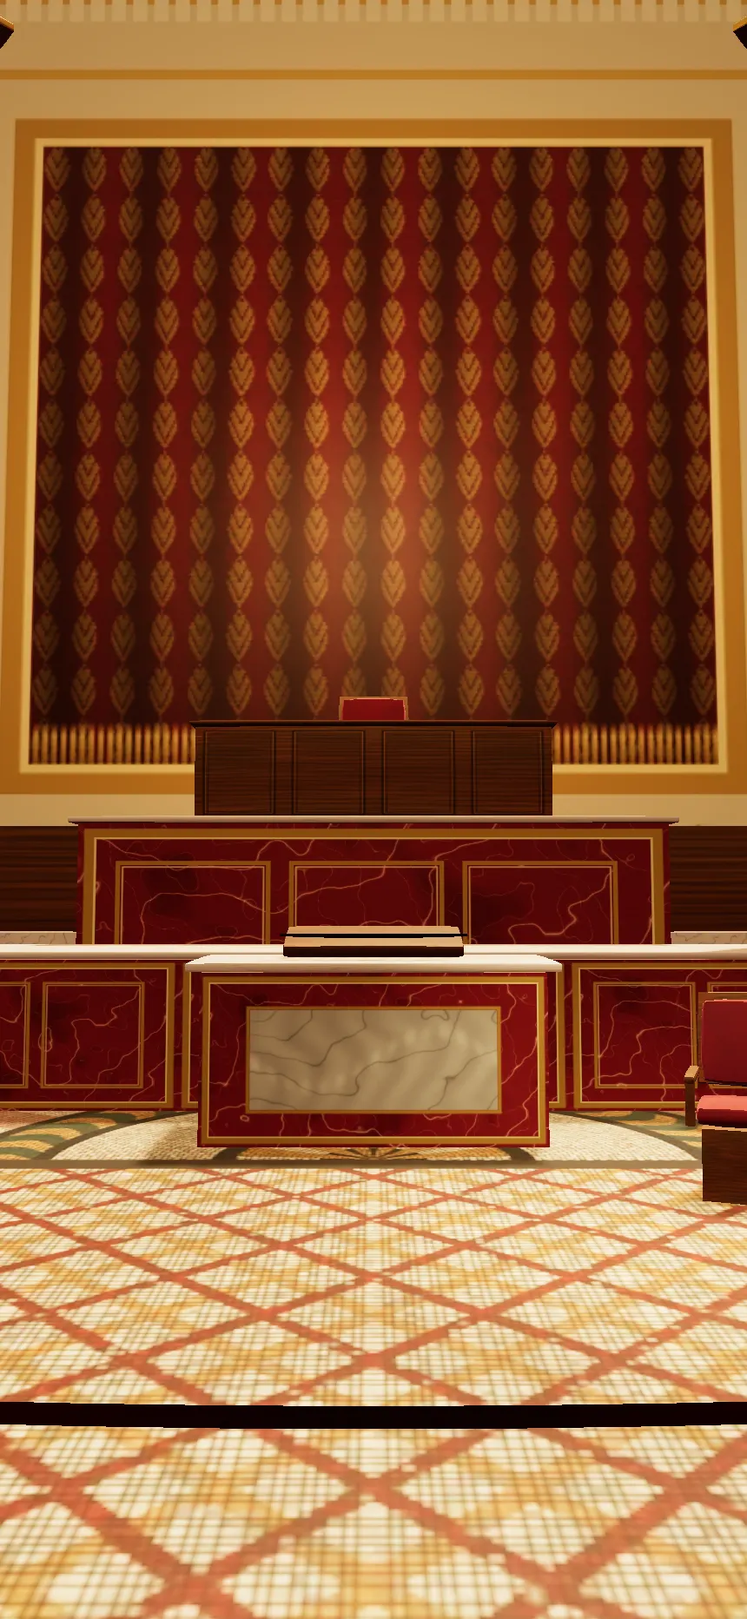
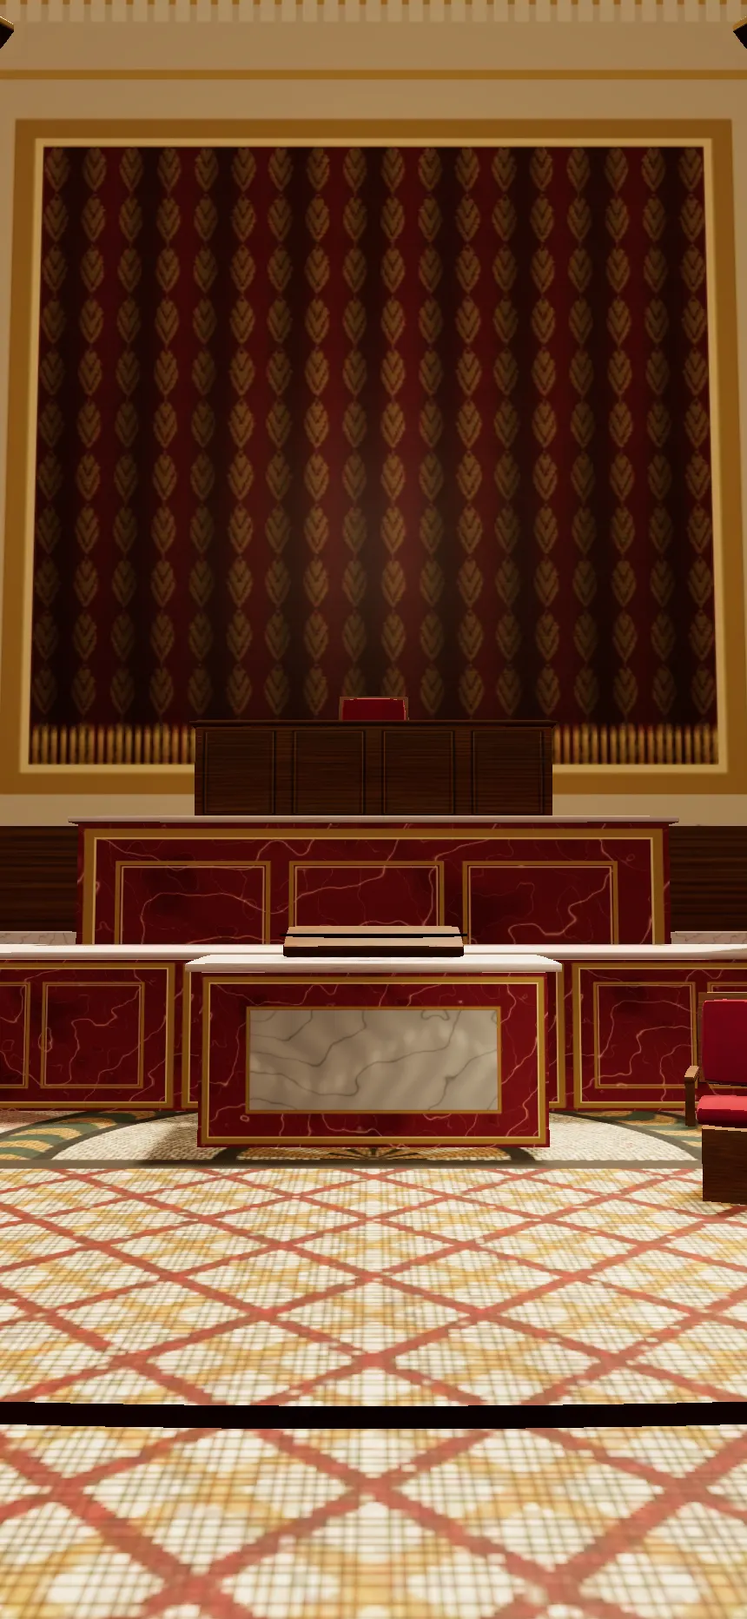
Design définitif « La Séance », lot D2 : la salle 3D retrouve ses couleurs (t65)
- Gestion des couleurs de three coupée (salle3d/gestion-couleurs.ts) : les
  couleurs hexadécimales du prototype r128 sont reprises telles quelles ;
  voyants, accord et personnage convertis à la main (couleurExacte, testé).
- Calibrage sur vraie carte graphique face aux rendus du prototype : appliques,
  fond, projecteur et lumière du jumeau baissés, environnement à 0,5, velours
  sans reflet spéculaire, ambiance verdict aux valeurs du prototype.
- Images fixes recalculées (--gpu) : fond-tribune, et nouvelles fond-salle et
  fond-verdict (voyants éteints) pour le repli plein cadre de D3.
- scripts/calibrage.mjs : rendus de référence et planche avant / après / prototype.

diff --git a/site/src/salle3d/scene.ts b/site/src/salle3d/scene.ts
@@ -1,6 +1,7 @@
 // La salle en 3D (docs/refonte-la-seance.md, § 4), portée du prototype de Julien
 // (docs/salle-3d/room.js, three r128 sans module) vers three 0.186 en module :
-// - couleurs : outputColorSpace et colorSpace au lieu des « encodings » ;
+// - couleurs : outputColorSpace et colorSpace au lieu des « encodings » ; conversion des couleurs
+//   hexadécimales coupée, comme en r128 (gestion-couleurs.ts) ;
 // - lumières physiques : intensités du prototype multipliées par π, puis réglées à l'œil ;
 // - velours : sheen devient un nombre, avec sheenColor ;
 // - matières précalculées (public/salle3d/, scripts/matieres.mjs) au lieu d'être calculées ici ;
@@ -10,6 +11,7 @@
 // les voyants tirés au hasard (les pages donnent les vrais votes).
 // Chargé à la demande par pilote.ts : jamais dans le JavaScript initial d'une page.
 
+import { couleurExacte } from './gestion-couleurs.ts';
 import * as THREE from 'three';
 import { chemin, echelleFauteuil, FAUTEUIL_578, longueur, P, position, sieges3D, surChemin, type Siege3D } from './geometrie.ts';
 import type { Apparence } from './apparence.ts';
@@ -199,7 +201,7 @@ function matieres(T: Textures, telephone: boolean) {
   M.plateau = new THREE.MeshPhysicalMaterial({ map: T.bois, color: 0x9c8474, bumpMap: T['bois-h'], bumpScale: 0.008, roughnessMap: T['bois-r'], roughness: 1, ...cc(0.3, 0.4), envMapIntensity: 0.7 });
   M.panneau = new THREE.MeshPhysicalMaterial({ map: T.panneau, bumpMap: T['panneau-h'], bumpScale: 0.03, roughness: 0.5, ...vernis, envMapIntensity: 0.8 });
   M.velours = new THREE.MeshPhysicalMaterial({ map: T.velours, bumpMap: T['velours-h'], bumpScale: 0.004, roughness: 0.92, metalness: 0,
-    sheen: 1, sheenColor: new THREE.Color(0.42, 0.08, 0.1), sheenRoughness: 0.6, envMapIntensity: 0.3 });
+    sheen: 1, sheenColor: new THREE.Color(0.42, 0.08, 0.1), sheenRoughness: 0.92, specularIntensity: 0, envMapIntensity: 0.3 });
   M.velours.onBeforeCompile = (sh: { fragmentShader: string }) => { // reflet rasant du velours
     sh.fragmentShader = sh.fragmentShader.replace('#include <tonemapping_fragment>',
       'float fr = pow(1.0 - clamp(dot(normal, normalize(vViewPosition)), 0.0, 1.0), 2.2);\n gl_FragColor.rgb += vec3(0.20, 0.035, 0.045) * fr * (0.35 + 0.65 * diffuseColor.r);\n#include <tonemapping_fragment>');
@@ -464,14 +466,14 @@ export async function creer(canvas: HTMLCanvasElement, opt: OptionsScene = {}): 
   const hemi = new THREE.HemisphereLight(0xffe2b8, 0x3a170f, 0.42 * PI); scene.add(hemi);
   const appliques: THREE.PointLight[] = [];
   for (const a of [20, 60, 90, 120, 160]) {
-    const l = new THREE.PointLight(0xffb36b, 0.55 * PI * 40, 18, 2); const ar = rad(a);
+    const l = new THREE.PointLight(0xffb36b, 0.55 * PI * 8, 18, 2); const ar = rad(a);
     l.position.set(19 * Math.cos(ar), 9.5, 19 * Math.sin(ar)); scene.add(l); appliques.push(l);
   }
-  const fond = new THREE.PointLight(0xffc27a, 0.8 * PI * 25, 16, 2); fond.position.set(0, 7, -3); scene.add(fond); appliques.push(fond);
-  const spot = new THREE.SpotLight(0xffe0a8, 1.4 * PI * 40, 14, 0.32, 0.6, 1.5); spot.position.set(2.6, 9, 3.2); spot.target = G.c578; scene.add(spot);
+  const fond = new THREE.PointLight(0xffc27a, 0.8 * PI * 6, 16, 2); fond.position.set(0, 7, -3); scene.add(fond); appliques.push(fond);
+  const spot = new THREE.SpotLight(0xffe0a8, 1.4 * PI * 28, 14, 0.32, 0.6, 1.5); spot.position.set(2.6, 9, 3.2); spot.target = G.c578; scene.add(spot);
   const env = new THREE.TextureLoader();
   const envTex = T.environnement.clone(); envTex.mapping = THREE.EquirectangularReflectionMapping; envTex.colorSpace = THREE.SRGBColorSpace; envTex.needsUpdate = true;
-  const pmrem = new THREE.PMREMGenerator(renderer); scene.environment = pmrem.fromEquirectangular(envTex).texture;
+  const pmrem = new THREE.PMREMGenerator(renderer); scene.environment = pmrem.fromEquirectangular(envTex).texture; scene.environmentIntensity = 0.5;
   void env;
   scene.background = new THREE.Color(0x1a0f09);
   const brouillard = new THREE.FogExp2(0x6b4a30, 0.0085); scene.fog = brouillard;
@@ -495,7 +497,7 @@ export async function creer(canvas: HTMLCanvasElement, opt: OptionsScene = {}): 
   /* Le jumeau : sa plaquette s'éclaire, une petite lumière chaude sur son pupitre (room.js). */
   const jumPlaque = new THREE.Mesh(new THREE.BoxGeometry(0.17, 0.012, 0.052),
     new THREE.MeshStandardMaterial({ color: 0xE9CB86, emissive: 0xFFD79A, emissiveIntensity: 0.9, metalness: 0.5, roughness: 0.3 }));
-  const jumLum = new THREE.PointLight(0xffd9a0, 0.9 * PI * 8, 3.4, 2);
+  const jumLum = new THREE.PointLight(0xffd9a0, 0.9 * PI * 1.5, 3.4, 2);
   const jum = new THREE.Group(); jum.add(jumPlaque, jumLum); jum.visible = false; scene.add(jum);
 
   /* Le personnage : sa place (null : le 578e fauteuil), sa marche en cours */
@@ -546,7 +548,7 @@ export async function creer(canvas: HTMLCanvasElement, opt: OptionsScene = {}): 
   const finVue = (nom: NomVue) => {
     const plan = nom === 'plan';
     G.plafond.visible = !plan; G.faisceaux.visible = !plan && !lustres?.visible; brouillard.density = plan ? 0.0004 : base0.fog[1];
-    renderer.toneMappingExposure = plan ? 0.78 : (lustres?.visible ? 0.95 : base0.expo);
+    renderer.toneMappingExposure = plan ? 0.78 : (lustres?.visible ? 1.15 : base0.expo);
     echV = plan ? 9 : 1; poserVoyants(); (M.sol as THREE.MeshPhysicalMaterial).color.setHex(plan ? 0x5e4f44 : 0xb9a596);
     renderer.shadowMap.needsUpdate = true;
   };
@@ -637,7 +639,7 @@ export async function creer(canvas: HTMLCanvasElement, opt: OptionsScene = {}): 
       for (let k = 0; k < n; k++) {
         const v = couleurs[k] ?? null;
         allumes[k] = !!v;
-        if (v) { c.set(v); I.voyant.setColorAt(k, c); I.lueur.setColorAt(k, c); } else { I.voyant.setColorAt(k, noir); I.lueur.setColorAt(k, zero); }
+        if (v) { couleurExacte(v, c); I.voyant.setColorAt(k, c); I.lueur.setColorAt(k, c); } else { I.voyant.setColorAt(k, noir); I.lueur.setColorAt(k, zero); }
       }
       I.voyant.instanceColor!.needsUpdate = true; I.lueur.instanceColor!.needsUpdate = true; poserVoyants(); demander();
     },
@@ -662,7 +664,7 @@ export async function creer(canvas: HTMLCanvasElement, opt: OptionsScene = {}): 
           if (allume[k] || delais[k] * echelle > t) continue;
           allume[k] = true; change = true;
           const v = couleurs[k] ?? null; allumes[k] = !!v;
-          if (v) { c.set(v); I.voyant.setColorAt(k, c); I.lueur.setColorAt(k, c); }
+          if (v) { couleurExacte(v, c); I.voyant.setColorAt(k, c); I.lueur.setColorAt(k, c); }
         }
         if (change) { I.voyant.instanceColor!.needsUpdate = true; I.lueur.instanceColor!.needsUpdate = true; poserVoyants(); rendre(); }
       };
@@ -749,9 +751,9 @@ export async function creer(canvas: HTMLCanvasElement, opt: OptionsScene = {}): 
       G.faisceaux.visible = vueCourante !== 'plan';
       renderer.toneMappingExposure = base0.expo;
       if (nom === 'verdict') {
-        soleil.intensity = 0.75 * PI; soleil.color.setHex(0xffcf9a); hemi.intensity = 0.22 * PI; appliques.forEach((l) => { l.intensity *= 1.6; });
+        soleil.intensity = 0.75 * PI; soleil.color.setHex(0xffcf9a); hemi.intensity = 0.22 * PI; appliques.forEach((l) => { l.intensity *= 2.6; });
         faireLustres().visible = true; M.verriere.emissiveIntensity = 0.55; M.vitrage.emissiveIntensity = 0.55; M.or.envMapIntensity = 2.1; M.or.roughness = 0.55; M.caisson.envMapIntensity = 1.7;
-        renderer.toneMappingExposure = vueCourante === 'plan' ? 0.78 : 0.95; brouillard.color.setHex(0x3e2618); brouillard.density = vueCourante === 'plan' ? 0.0004 : 0.007; G.faisceaux.visible = false;
+        renderer.toneMappingExposure = vueCourante === 'plan' ? 0.78 : 1.15; brouillard.color.setHex(0x3e2618); brouillard.density = vueCourante === 'plan' ? 0.0004 : 0.007; G.faisceaux.visible = false;
       }
       renderer.shadowMap.needsUpdate = true; demander();
     },

diff --git a/site/src/salle3d/gestion-couleurs.ts b/site/src/salle3d/gestion-couleurs.ts
@@ -1,0 +1,18 @@
+// La gestion des couleurs de la salle (docs/design-final/DESIGN-FINAL.md, § 7). Le prototype de
+// Julien (three r128) règle à l'œil ses couleurs en hexadécimal (lumières, brouillard, matières),
+// prises telles quelles. three ≥ r152 les convertit de sRGB en linéaire (ColorManagement) : plus
+// saturées et plus chaudes, elles doraient toute la salle. On coupe cette conversion, comme le
+// recommande three pour retrouver l'aspect r128 ; les textures gardent leur espace (SRGBColorSpace)
+// et la sortie reste en sRGB. À importer avant toute création de couleur.
+//
+// Les couleurs qui viennent de l'interface (votes, peau et tenues du personnage) doivent, elles,
+// être rendues exactement : elles passent par `couleurExacte`, qui fait la conversion à la main.
+
+import * as THREE from 'three';
+
+THREE.ColorManagement.enabled = false;
+
+/** Une couleur sRGB de l'interface (« #2F7BFF »), convertie pour être rendue telle quelle. */
+export function couleurExacte(c: THREE.ColorRepresentation, cible = new THREE.Color()): THREE.Color {
+  return cible.set(c).convertSRGBToLinear();
+}

diff --git a/site/src/salle3d/gestion-couleurs.test.ts b/site/src/salle3d/gestion-couleurs.test.ts
@@ -1,0 +1,21 @@
+import assert from 'node:assert/strict';
+import { test } from 'node:test';
+import * as THREE from 'three';
+import { couleurExacte } from './gestion-couleurs.ts';
+
+test('les couleurs hexadécimales de la salle sont prises telles quelles, comme en r128', () => {
+  assert.equal(THREE.ColorManagement.enabled, false);
+  const soleil = new THREE.Color(0xffdcaa);
+  assert.ok(Math.abs(soleil.g - 0xdc / 255) < 1e-6);
+  assert.ok(Math.abs(soleil.b - 0xaa / 255) < 1e-6);
+});
+
+test('une couleur de vote ressort exactement (convertie à la main, rendue en sRGB)', () => {
+  for (const hex of ['#2F7BFF', '#FF6A3D', '#FFC531', '#F2EEE6']) {
+    const c = couleurExacte(hex);
+    assert.ok(c.r <= 1 && c.g <= 1 && c.b <= 1);
+    assert.equal(`#${c.clone().convertLinearToSRGB().getHexString()}`, hex.toLowerCase());
+  }
+  // En linéaire, le bleu « pour » a une composante rouge bien plus faible qu'en sRGB.
+  assert.ok(couleurExacte('#2F7BFF').r < 0.05);
+});

diff --git a/site/src/salle3d/personnage3d.ts b/site/src/salle3d/personnage3d.ts
@@ -5,6 +5,7 @@
 // le personnage regarde vers +z, les pieds à y = 0 debout ; assis, son origine est celle du
 // fauteuil (comme dans room.js).
 
+import { couleurExacte } from './gestion-couleurs.ts';
 import * as THREE from 'three';
 import { couleursDe, type Apparence } from './apparence.ts';
 
@@ -20,7 +21,7 @@ const CUISSE = 0.44, TIBIA = 0.48, BRAS = 0.3, AVANT_BRAS = 0.28;
 
 export function creerPersonnage(a: Apparence): Personnage {
   const c = couleursDe(a);
-  const std = (couleur: string, r: number) => new THREE.MeshStandardMaterial({ color: couleur, roughness: r, envMapIntensity: 0.5 });
+  const std = (couleur: string, r: number) => new THREE.MeshStandardMaterial({ color: couleurExacte(couleur), roughness: r, envMapIntensity: 0.5 });
   const peau = std(c.peau, 0.62), haut = std(c.haut, 0.88), bas = std(c.bas, 0.82), cheveux = std(c.cheveux, 0.72);
   const groupe = new THREE.Group();
   const bassin = new THREE.Group(); groupe.add(bassin);

diff --git a/docs/PLANNING.md b/docs/PLANNING.md
@@ -1,7 +1,7 @@
 # PLANNING — Site Politique · « Le 578e siège »
 
 > Fichier de référence pour Claude Code, versionné dans `docs/PLANNING.md` depuis le 7 octobre 2026. Claude Code le relit en début de session et le met à jour en fin de session (§ 0).
-> Dernière mise à jour : 20 octobre 2026 (t64, lot D1 du design définitif, livrée sur la branche `design-d1`, PR empilée sur D0 : condensé toujours en capitales, Literata pour les questions et les intitulés, lumière réservée à toi, niveaux d'accord en ivoire, coins vifs et aplats ; `npm run test:typo` à 0 faute ; t63, lot D0 du design définitif, livrée sur la branche `design-d0`, PR empilée sur le lot 6 : outils de comparaison (captures sur vraie carte graphique, planches site / maquette, contrôle de la typographie), plan des lots D0 à D6 validé par Julien, tâches t63 à t70 ajoutées ; t62, lot 6 de la refonte, livrée sur la branche `seance-lot-6`, PR empilée sur le lot 5 : stories, puces des thèmes, retrait des alias V5, de Fredoka et de Nunito, CLAUDE.md ; refonte « La Séance » entièrement livrée, en attente de fusion des PR #42 à la dernière ; t61, lot 5 de la refonte, livrée sur la branche `seance-lot-5`, PR empilée sur le lot 4b : le personnage, sa marche jusqu'au siège du jumeau, CAM 3 ; t60, lot 4 de la refonte, livrée en deux PR empilées, branches `seance-lot-4a` et `seance-lot-4b` : salle 3D à la demande, Mon hémicycle, salle allumée au verdict, caméra libre, images fixes ; t59, lot 3 de la refonte, livrée en deux PR empilées, branches `seance-lot-3a` et `seance-lot-3b` : pages de lecture en thème Jour ; t58, lot 2 de la refonte, livrée sur la branche `seance-lot-2`, PR empilée sur le lot 1 : quiz, lots, séance et verdict en régie, thème Séance ; t57, lot 1 de la refonte, livrée sur la branche `seance-lot-1`, PR empilée sur le lot 0 : polices, jetons des deux thèmes, en-tête de régie, pages en thème Jour jusqu'à leur reprise, Playwright accepté par Julien ; refonte « La Séance » décidée par Julien, lots t56 à t62 ajoutés, spec docs/refonte-la-seance.md ; t56, lot 0, livrée sur la branche `seance-lot-0`, en attente de fusion : `578e.verdicts-vus.v1` annoncée et effaçable, inventaire des `data-*` et poids du JavaScript enregistrés, prototype 3D versionné ; 19 octobre : t23 cochée : séance du 19 oct. choisie seule ; nouveau verdict (#40) et Explorer (#37) fusionnés, mise en ligne en attente d'un passage réussi, le serveur de l'Assemblée coupant les téléchargements ; 14 octobre : verdict : repère d'étapes et « Verdict suivant », retour de Julien ; vérification finale des animations mise en ligne, PR #38 ; soir de scrutin du 13 oct. : `soiree.yml` déclenché 2 fois sur 9, scrutins publiés à 22 h 49, verdict de la séance complet, porte t26 à trancher par Julien ; 13 octobre : animations lot 1, vérification finale du lot : les 9 tâches sont dans `main` et en ligne depuis le passage du pipeline de 13 h 04 ; chargement des pages, neutralité, ADOPTÉ / REJETÉ, mouvement réduit et chronométrage vérifiés dans Chromium à 390 px ; 2 corrections « rien hors écran » et le défaut `data-tranches` de Mon hémicycle corrigé ; reste le test sur téléphone par Julien ; animations lot 1, session C : t54 et t55 livrées, PR #35 et #36, après le rattrapage de t52 et t53 dans main, PR #34 ; lot 1 entièrement livré ; animations lot 1, session B : t51 à t53 livrées, PR #30 à #32 empilées sur #29, en attente de fusion ; animations lot 1, session A : t47 bis à t50 livrées, PR #25 à #28 empilées, en attente de fusion, à tester sur téléphone ; t51 à t55 pour les sessions B et C ; 12 octobre : t47 livrée, commitée en local sur la branche `lots-facultatifs`, pas encore en ligne : les 12 cartes de la réserve validées par Julien deviennent les lots facultatifs 6 à 9, proposés après le lot 5 sans être imposés, précision jusqu'à 84 % sur 37 votes ; une semaine creuse est complétée par les cartes des lots ; retours du premier vrai test de la séance par Julien : verdict d'une séance tranchée en partie, « Ta voix de 578e » recalculée avec la voix du visiteur, mentions légales et confidentialité mises en ligne à sa demande, t36 faite côté code, mesure d'audience reportée en fin de projet : t46, clé API révoquée ; mise en ligne de la branche `lots-candidats`, PR #18 : lots, accueil, séance de la semaine, verdict, page « Comment c'est calculé », référencement ; t44 et t45 cochées ; séance du 12 octobre choisie et publiée, heure du vote corrigée en heure de Paris, PR #19 ; porte t26 préparée : Julien fait la séance avant mardi 13 octobre 15 h ; cartes des 2 votes solennels du 13 octobre rédigées et validées par Julien, en avance sur t27 ; 9 octobre : t36 livrée : contrastes, plan du site, balises de partage, données structurées, mesure d'audience à activer par Julien ; t34 faite : page « Comment c'est calculé », brouillons de mentions légales et de confidentialité pour t35 ; t23, t24 et t25 livrées, branche `lots-candidats` : séance de la semaine choisie dans l'agenda, écran de séance, verdict, soirées de scrutin ; prochaine étape : la porte t26, une vraie séance vécue par Julien ; t45 livrée, branche `lots-candidats`, en attente de fusion : accueil d'après la frame ⑤ ; t44 livrée, branche `lots-candidats`, en attente de fusion : page /lots/, 5 lots de 3 enchaînés après le quiz ; t18, t19 et t21 cochées, déployées le 8 oct. ; t43 faite : les 15 votes des 5 lots choisis par Julien, figés dans data/lots.json ; t42 faite, branche `lots-candidats`, en attente de fusion : format de la carte de vote et 12 thèmes, 24 candidats et 5 lots proposés dans docs/lots-candidats.md, prêts pour t43 ; premiers retours de Julien sur t22 traités, branche `retours-t22`, en attente de fusion : sigles des groupes, couleurs des groupes, frames V5 de Mon hémicycle et du quiz recopiées ; lots de votes après le quiz décidés, 5 au lancement ; cadrage produit validé (docs/cadrage-produit.md) : lots de 3 votes, une séance passée devient un lot, phase 2 bis ajoutée (t42 à t45) avant la séance ; t21 livrée, branche `quiz`, en attente de fusion : quiz d'entrée, ton hémicycle, jumeau, stories ; t20 faite : 10 votes de société retenus par Julien, figés dans data/quiz.json, jumeau toujours montré ; t18 et t19 livrées, branche `page-vote`, en attente de fusion : page de chaque vote, Explorer, accueil, fiche député, recherche par code postal ; t17 faite : site en ligne sur https://le578esiege.pages.dev, hémicycle sur les vraies données ; t16 faite, déploiement par téléversement direct depuis GitHub Actions ; t15 faite, porte de la phase 1 franchie ; t02, t04 à t10, t12 à t14 faites, go pour la phase 1, t11 livrée ; périmètre portfolio, fonctions centrées sur l'utilisateur reportées ; relevé de t03 démarré ; passage à zéro euro : vulgarisation dans une session Claude Code hebdomadaire, phase 4 revue). Tableau de suivi visuel : https://claude.ai/artifact/6qqYu8GKCMVHohkmZjN23h
+> Dernière mise à jour : 21 octobre 2026 (t65, lot D2 du design définitif, livrée sur la branche `design-d2`, PR empilée sur D1 : salle 3D sans dorure (gestion des couleurs de three coupée, lumières recalibrées sur vraie carte graphique), images fixes de la tribune, de la salle et du verdict ; 20 octobre : t64, lot D1 du design définitif, livrée sur la branche `design-d1`, PR empilée sur D0 : condensé toujours en capitales, Literata pour les questions et les intitulés, lumière réservée à toi, niveaux d'accord en ivoire, coins vifs et aplats ; `npm run test:typo` à 0 faute ; t63, lot D0 du design définitif, livrée sur la branche `design-d0`, PR empilée sur le lot 6 : outils de comparaison (captures sur vraie carte graphique, planches site / maquette, contrôle de la typographie), plan des lots D0 à D6 validé par Julien, tâches t63 à t70 ajoutées ; t62, lot 6 de la refonte, livrée sur la branche `seance-lot-6`, PR empilée sur le lot 5 : stories, puces des thèmes, retrait des alias V5, de Fredoka et de Nunito, CLAUDE.md ; refonte « La Séance » entièrement livrée, en attente de fusion des PR #42 à la dernière ; t61, lot 5 de la refonte, livrée sur la branche `seance-lot-5`, PR empilée sur le lot 4b : le personnage, sa marche jusqu'au siège du jumeau, CAM 3 ; t60, lot 4 de la refonte, livrée en deux PR empilées, branches `seance-lot-4a` et `seance-lot-4b` : salle 3D à la demande, Mon hémicycle, salle allumée au verdict, caméra libre, images fixes ; t59, lot 3 de la refonte, livrée en deux PR empilées, branches `seance-lot-3a` et `seance-lot-3b` : pages de lecture en thème Jour ; t58, lot 2 de la refonte, livrée sur la branche `seance-lot-2`, PR empilée sur le lot 1 : quiz, lots, séance et verdict en régie, thème Séance ; t57, lot 1 de la refonte, livrée sur la branche `seance-lot-1`, PR empilée sur le lot 0 : polices, jetons des deux thèmes, en-tête de régie, pages en thème Jour jusqu'à leur reprise, Playwright accepté par Julien ; refonte « La Séance » décidée par Julien, lots t56 à t62 ajoutés, spec docs/refonte-la-seance.md ; t56, lot 0, livrée sur la branche `seance-lot-0`, en attente de fusion : `578e.verdicts-vus.v1` annoncée et effaçable, inventaire des `data-*` et poids du JavaScript enregistrés, prototype 3D versionné ; 19 octobre : t23 cochée : séance du 19 oct. choisie seule ; nouveau verdict (#40) et Explorer (#37) fusionnés, mise en ligne en attente d'un passage réussi, le serveur de l'Assemblée coupant les téléchargements ; 14 octobre : verdict : repère d'étapes et « Verdict suivant », retour de Julien ; vérification finale des animations mise en ligne, PR #38 ; soir de scrutin du 13 oct. : `soiree.yml` déclenché 2 fois sur 9, scrutins publiés à 22 h 49, verdict de la séance complet, porte t26 à trancher par Julien ; 13 octobre : animations lot 1, vérification finale du lot : les 9 tâches sont dans `main` et en ligne depuis le passage du pipeline de 13 h 04 ; chargement des pages, neutralité, ADOPTÉ / REJETÉ, mouvement réduit et chronométrage vérifiés dans Chromium à 390 px ; 2 corrections « rien hors écran » et le défaut `data-tranches` de Mon hémicycle corrigé ; reste le test sur téléphone par Julien ; animations lot 1, session C : t54 et t55 livrées, PR #35 et #36, après le rattrapage de t52 et t53 dans main, PR #34 ; lot 1 entièrement livré ; animations lot 1, session B : t51 à t53 livrées, PR #30 à #32 empilées sur #29, en attente de fusion ; animations lot 1, session A : t47 bis à t50 livrées, PR #25 à #28 empilées, en attente de fusion, à tester sur téléphone ; t51 à t55 pour les sessions B et C ; 12 octobre : t47 livrée, commitée en local sur la branche `lots-facultatifs`, pas encore en ligne : les 12 cartes de la réserve validées par Julien deviennent les lots facultatifs 6 à 9, proposés après le lot 5 sans être imposés, précision jusqu'à 84 % sur 37 votes ; une semaine creuse est complétée par les cartes des lots ; retours du premier vrai test de la séance par Julien : verdict d'une séance tranchée en partie, « Ta voix de 578e » recalculée avec la voix du visiteur, mentions légales et confidentialité mises en ligne à sa demande, t36 faite côté code, mesure d'audience reportée en fin de projet : t46, clé API révoquée ; mise en ligne de la branche `lots-candidats`, PR #18 : lots, accueil, séance de la semaine, verdict, page « Comment c'est calculé », référencement ; t44 et t45 cochées ; séance du 12 octobre choisie et publiée, heure du vote corrigée en heure de Paris, PR #19 ; porte t26 préparée : Julien fait la séance avant mardi 13 octobre 15 h ; cartes des 2 votes solennels du 13 octobre rédigées et validées par Julien, en avance sur t27 ; 9 octobre : t36 livrée : contrastes, plan du site, balises de partage, données structurées, mesure d'audience à activer par Julien ; t34 faite : page « Comment c'est calculé », brouillons de mentions légales et de confidentialité pour t35 ; t23, t24 et t25 livrées, branche `lots-candidats` : séance de la semaine choisie dans l'agenda, écran de séance, verdict, soirées de scrutin ; prochaine étape : la porte t26, une vraie séance vécue par Julien ; t45 livrée, branche `lots-candidats`, en attente de fusion : accueil d'après la frame ⑤ ; t44 livrée, branche `lots-candidats`, en attente de fusion : page /lots/, 5 lots de 3 enchaînés après le quiz ; t18, t19 et t21 cochées, déployées le 8 oct. ; t43 faite : les 15 votes des 5 lots choisis par Julien, figés dans data/lots.json ; t42 faite, branche `lots-candidats`, en attente de fusion : format de la carte de vote et 12 thèmes, 24 candidats et 5 lots proposés dans docs/lots-candidats.md, prêts pour t43 ; premiers retours de Julien sur t22 traités, branche `retours-t22`, en attente de fusion : sigles des groupes, couleurs des groupes, frames V5 de Mon hémicycle et du quiz recopiées ; lots de votes après le quiz décidés, 5 au lancement ; cadrage produit validé (docs/cadrage-produit.md) : lots de 3 votes, une séance passée devient un lot, phase 2 bis ajoutée (t42 à t45) avant la séance ; t21 livrée, branche `quiz`, en attente de fusion : quiz d'entrée, ton hémicycle, jumeau, stories ; t20 faite : 10 votes de société retenus par Julien, figés dans data/quiz.json, jumeau toujours montré ; t18 et t19 livrées, branche `page-vote`, en attente de fusion : page de chaque vote, Explorer, accueil, fiche député, recherche par code postal ; t17 faite : site en ligne sur https://le578esiege.pages.dev, hémicycle sur les vraies données ; t16 faite, déploiement par téléversement direct depuis GitHub Actions ; t15 faite, porte de la phase 1 franchie ; t02, t04 à t10, t12 à t14 faites, go pour la phase 1, t11 livrée ; périmètre portfolio, fonctions centrées sur l'utilisateur reportées ; relevé de t03 démarré ; passage à zéro euro : vulgarisation dans une session Claude Code hebdomadaire, phase 4 revue). Tableau de suivi visuel : https://claude.ai/artifact/6qqYu8GKCMVHohkmZjN23h
 
 ## 0. Comment utiliser ce fichier
 
@@ -91,7 +91,7 @@ Légende : 🤖 Claude Code · 👤 Julien · 🤝 ensemble · ◆ porte (décis
 ### Design définitif « La Séance » (ajouté le 20 oct. 2026 à la demande de Julien ; spec : docs/design-final/DESIGN-FINAL.md ; plan : docs/design-final/PLAN-LOTS.md)
 - [x] t63 🤖 D0 · Outils de comparaison : captures aux noms de `captures-la-seance/`, planches site / maquette, contrôle de la typographie *(livrée le 20 oct. 2026, branche `design-d0`, PR empilée sur t62, en attente de fusion)*
 - [x] t64 🤖 D1 · Typographie et couleurs, partout ; niveaux d'accord en ivoire *(livrée le 20 oct. 2026, branche `design-d1`, PR empilée sur t63, en attente de fusion)*
-- [ ] t65 🤖 D2 · Couleur de la salle 3D (gestion des couleurs de three, calibrage sur vraie carte graphique, images fixes par caméra)
+- [x] t65 🤖 D2 · Couleur de la salle 3D (gestion des couleurs de three, calibrage sur vraie carte graphique, images fixes par caméra) *(livrée le 21 oct. 2026, branche `design-d2`, PR empilée sur t64, en attente de fusion)*
 - [ ] t66 🤖 D3a · En-tête, gabarit « scène » plein cadre, accueil (V6C-01), barre du bas sur téléphone
 - [ ] t67 🤖 D3b · Verdict (V6C-03) et Mon hémicycle (V6C-04, V6C-06), panneau « Ton personnage »
 - [ ] t68 🤖 D4 · Mode focus : quiz, lots, séance, révélation, fins (V6C-02, V6C-05)
@@ -450,6 +450,7 @@ site/          le site (Astro), créé en phase 2 ; site/tests/ et site/scripts/
 - **Décisions de Julien (20 oct.) :** niveaux d'accord en intensités d'ivoire (fait en D1, avec CLAUDE.md et docs/decisions.md) ; lots empilés sur `seance-lot-6` ; `docs/design-final/` et les planches versionnés, captures brutes ignorées par git.
 - **Réalisé (20 oct., t63) :** branche `design-d0`, empilée sur `seance-lot-6`. `docs/design-final/` versionné (DESIGN-FINAL, demande, plan des lots, 6 maquettes en PNG et HTML, fonds du prototype, 6 comparaisons). `site/scripts/ecrans.mjs` : les 31 écrans en parcours partagés (états préparés dans le stockage local), lancement de Chromium sur la vraie carte graphique (`--gpu` : Direct3D 11, Intel Iris Xe vérifiée) ou en WebGL logiciel, options `--ecrans` et `--appareils`. `site/scripts/frames.mjs` (déjà utilisé pour `captures-la-seance/`, désormais versionné) s'en sert ; pages coupées à 4 000 px (annuaire) ou 8 000 px. `site/scripts/planches.mjs` : avant / site / maquette côte à côte, même largeur, pointillé au pli (900 ou 844 px), JPEG q80, sans dépendance nouvelle. `site/scripts/typo.mjs` (`npm run test:typo`) : Barlow Condensed sans capitales sur les 62 écrans (textes sans minuscule tolérés), plus deux relevés non bloquants (coins arrondis, couleur lumière) ; **3 024 fautes au départ** (dont environ 1 300 dans l'annuaire des députés), attendu rouge jusqu'à D5. Planches témoins dans `docs/design-final/planches/D0/` (18 : 9 écrans × 2 formats). Constat pour D2 : rendue sur la vraie carte graphique, la salle est aussi orangée qu'en rendu logiciel. **Écarts :** un texte déjà en capitales sans `text-transform` (sigle « LFI ») est toléré par le contrôle, pas « Dem » ni « EcoS ». **Reste :** fusion ; t64.
 - **Réalisé (20 oct., t64) :** branche `design-d1`, empilée sur `design-d0`. `global.css` : classes de la charte (`.t-ecran` à `.t-legende`), `h1` en Literata et `h2` en capitales condensées par défaut, chiffres tabulaires, `.carte` en aplat, `.aplats` (`gap: 2px`), `.panneau-salle` (seul carton avec ombre et rayon), boutons et étiquettes à coins vifs, encart sans liseré, liens survolés en ivoire, sigles des groupes en capitales, niveaux d'accord en ivoire (Séance et Jour). Composants : `LigneVote` (intitulé en Literata, verdict en capitales, barre de totaux par segments), `Salle` (jumeau en ivoire, étiquettes carrées en capitales), `Hemicycle` (filtres rectangulaires), `Seance` (lumière retirée de la révélation et de la bulle, « Ton vote » en capitales, actions à coins vifs), `Salle3D` (« Cam 1 · Salle » en une seule chaîne), `EnteteSeance`, `JaugePrecision`, `SerieGelee`, `fin-seance.css`. Pages : accueil, Mon hémicycle (voyants 3D par accord en ivoire, réponses en pastille + mot), verdict, quiz, séance, Explorer, page d'un vote, « Qui te représente ? », fiche député, calcul, état, confidentialité, mentions légales. **`npm run test:typo` : 0 faute sur 62 écrans** (3 024 en D0) ; relevés restants : rayons de 6 px du seul panneau et des boutons de vote ; lumière seulement sur toi (logo, précision, « Toi », « Ta voix de 578e », flamme de la série). Vérifié : `npm test` (72), build, `npm run test:inventaire` (aucun `data-*` perdu), `uv run pytest`, `ruff`, `parcours.mjs` (boutons de vote identiques). Planches : 24 dans `docs/design-final/planches/D1/`, les 62 dans `captures-design-d1/planches/` (non versionné). **Écarts :** le compteur typographique est à zéro dès D1, et non en D5 ; les cercles à initiales sont masqués en CSS (éléments gardés pour leurs `data-*`) ; les stories gardent l'accord en lumière jusqu'à D6. **Reste :** fusion ; t65 (D2, couleur de la salle).
+- **Réalisé (21 oct., t65) :** branche `design-d2`, empilée sur `design-d1`. Hypothèse du § 7 confirmée : `THREE.ColorManagement.enabled = false` (`site/src/salle3d/gestion-couleurs.ts`, `couleurExacte` pour les voyants, l'accord et le personnage ; test `gestion-couleurs.test.ts`). Calibrage en 8 essais sur la vraie carte graphique avec `site/scripts/calibrage.mjs` (rendus dans `calibrage-d2/`, non versionnés) : appliques, fond, projecteur et lumière du jumeau baissés, environnement à 0,5, velours sans reflet spéculaire, ambiance verdict aux valeurs du prototype. `images-fixes.mjs --gpu` : `fond-tribune`, nouveaux `fond-salle` et `fond-verdict` (ordinateur et téléphone, 1,1 Mo en tout). Vérifié : `npm test` (74), build, `npm run test:inventaire` (JavaScript initial inchangé). Planches : `docs/design-final/planches/D2/` (calibrage avant / après / prototype et 7 écrans) ; toutes dans `captures-design-d2/planches/`. **Écarts :** pas d'image fixe de CAM 3 (place propre à chaque visiteur) ; les ombres du soleil restent plus douces que dans le prototype ; les voyants du verdict sont plus discrets que les halos du prototype (taille non touchée). **Reste :** fusion ; t66 (D3a).
 
 ## 8. Phase 3 — La séance de la semaine (S9–S10)
 

diff --git a/docs/decisions.md b/docs/decisions.md
@@ -361,3 +361,8 @@
 - Décision (Julien, plan du design définitif, docs/design-final/PLAN-LOTS.md) : (1) **Niveaux d'accord en intensités d'ivoire** : « rarement » prend la teinte de l'absent (#3A3D45), puis #6E6B66, #A9A49B et #F2EEE6 (thème Jour : #D3D0C8, #A8A49C, #6E6A63, #121318) ; dans la salle 3D, les voyants « par accord » suivent la même échelle jusqu'au blanc chaud d'une lampe. Légende inchangée. (2) **La lumière (#F2C98A) ne désigne plus que toi** : ton siège, ta précision, « Ta voix de 578e », le repère « Toi ». Elle quitte les surtitres « Ta place », « Ton jumeau », « Ton personnage », la série, les liens survolés, « même vote que ton député » (ivoire) ; ton jumeau passe en ivoire, dans l'hémicycle comme ailleurs. (3) **Typographie** : Barlow Condensed toujours en capitales (régie) ; Literata 500 pour toute question, tout intitulé de loi et les noms de députés en titre ; Barlow pour le reste, noms dans les listes compris. Les titres `h1` sont en Literata par défaut, les `h2` en capitales condensées ; un intertitre long devient une phrase en Literata. Classes de la charte (`.t-ecran` à `.t-legende`, DESIGN-FINAL.md § 3) dans `global.css`. (4) **Composants** : coins vifs pour les bandeaux, boutons, étiquettes, filtres et puces ; rayon de 6 px réservé au panneau de vote et aux boutons de vote, 999 px aux puces caméra ; aplats sans bordure ni ombre (`.carte`, `.aplats`, `gap: 2px`), l'ombre réservée au panneau posé sur la salle (`.panneau-salle`) ; plus de capsules ivoire « ADOPTÉ · 276-86 » (le verdict s'écrit en capitales, le score en puce), plus de capsules colorées « pour / contre » (une pastille de 10 px et le mot), plus de cercles à initiales, plus d'encart à liseré.
 - Raison : les maquettes V6C et docs/design-final/DESIGN-FINAL.md (§ 2 à 4) : condensé en bas de casse partout, Literata presque absente, et une « lumière » qui dorait toute la page et l'hémicycle.
 - Conséquence : remplace, pour les couleurs, les entrées « lot 4b » (accord en lumière) et « lot 3 » (même vote que toi en lumière) du 20 octobre. Les sigles des groupes s'écrivent en capitales (« DEM », « ECOS »). `npm run test:typo` passe de 3 024 fautes à 0 dès ce lot (attendu à D5). Les stories (`lib/stories.ts`) gardent l'accord en lumière jusqu'au lot D6. Les mises en page (salle plein cadre, mode focus) ne bougent pas avant D3 et D4.
+
+## 2026-10-21 · Design définitif, lot D2 : la salle 3D retrouve les couleurs du prototype
+- Décision : (1) **Gestion des couleurs de three coupée** (`THREE.ColorManagement.enabled = false`, `site/src/salle3d/gestion-couleurs.ts`, importé avant toute couleur) : les couleurs hexadécimales des lumières, du brouillard et des matières, réglées à l'œil dans le prototype (three r128), sont reprises telles quelles, comme en r128 ; three ≥ r152 les convertissait de sRGB en linéaire, ce qui dorait toute la salle (le soleil `0xffdcaa` perdait deux fois plus de bleu que de rouge). Textures en `SRGBColorSpace` et sortie en sRGB inchangées. Les couleurs venues de l'interface (voyants des votes, niveaux d'accord, peau et tenues du personnage) passent par `couleurExacte` et ressortent au pixel près (test). (2) **Calibrage** sur la vraie carte graphique (Intel Iris Xe, Direct3D 11), face aux rendus du prototype (`docs/design-final/maquettes/images/`) : appliques ×40 → ×8, lumière du fond ×25 → ×6, projecteur du 578e fauteuil ×40 → ×28 (le passage aux lumières physiques les avait rendues trop fortes, la salle n'avait plus d'ombres) ; lumière d'environnement à 0,5 ; velours sans reflet spéculaire (`specularIntensity: 0`, rugosité du sheen 0,92 : en r128, le sheen remplaçait ce reflet, qui délavait le rouge en rose) ; ambiance « verdict » remise aux valeurs du prototype (appliques ×2,6, exposition 1,15), baissées au lot 4b à cause de l'orangé ; lumière du pupitre du jumeau ×8 → ×1,5 (elle brûlait le pupitre en CAM 3). Géométrie inchangée. (3) **Images fixes** recalculées sur la vraie carte graphique (`site/scripts/images-fixes.mjs --gpu`) : `fond-tribune` (mode focus) et deux nouvelles caméras pour le repli plein cadre des scènes (lot D3), `fond-salle` (CAM 1 de jour) et `fond-verdict` (CAM 1, lumières allumées, voyants éteints pour ne figer aucun vrai vote), chacune en ordinateur et téléphone (1,1 Mo en tout, une seule chargée par page). Pas d'image fixe de CAM 3 : elle part du siège de chaque visiteur.
+- Raison : docs/design-final/DESIGN-FINAL.md, § 1 (point 6) et § 7 : marbre et colonnes blanc cassé, murs crème, velours rouge franc.
+- Conséquence : `site/scripts/calibrage.mjs` refait les 4 vues de référence et la planche avant / après / prototype. Les réglages « à l'œil » des intensités (lots 4a et 4b) sont remplacés par ceux-ci.
